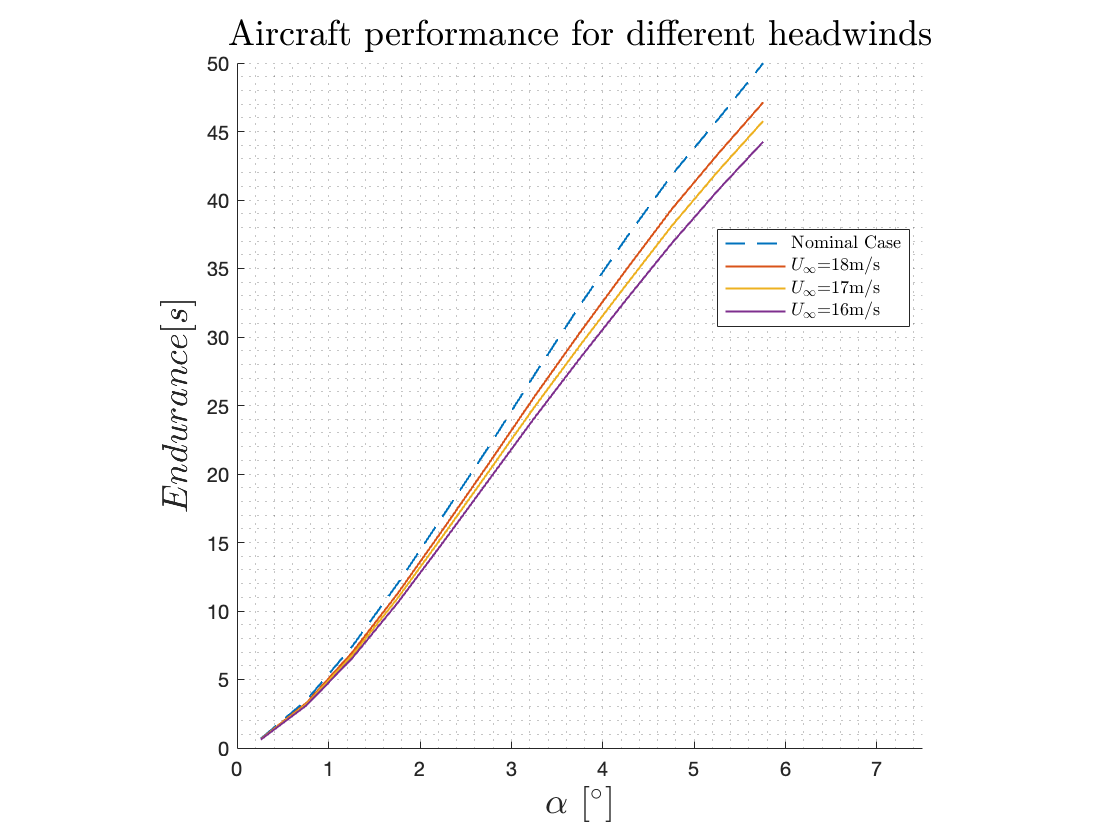
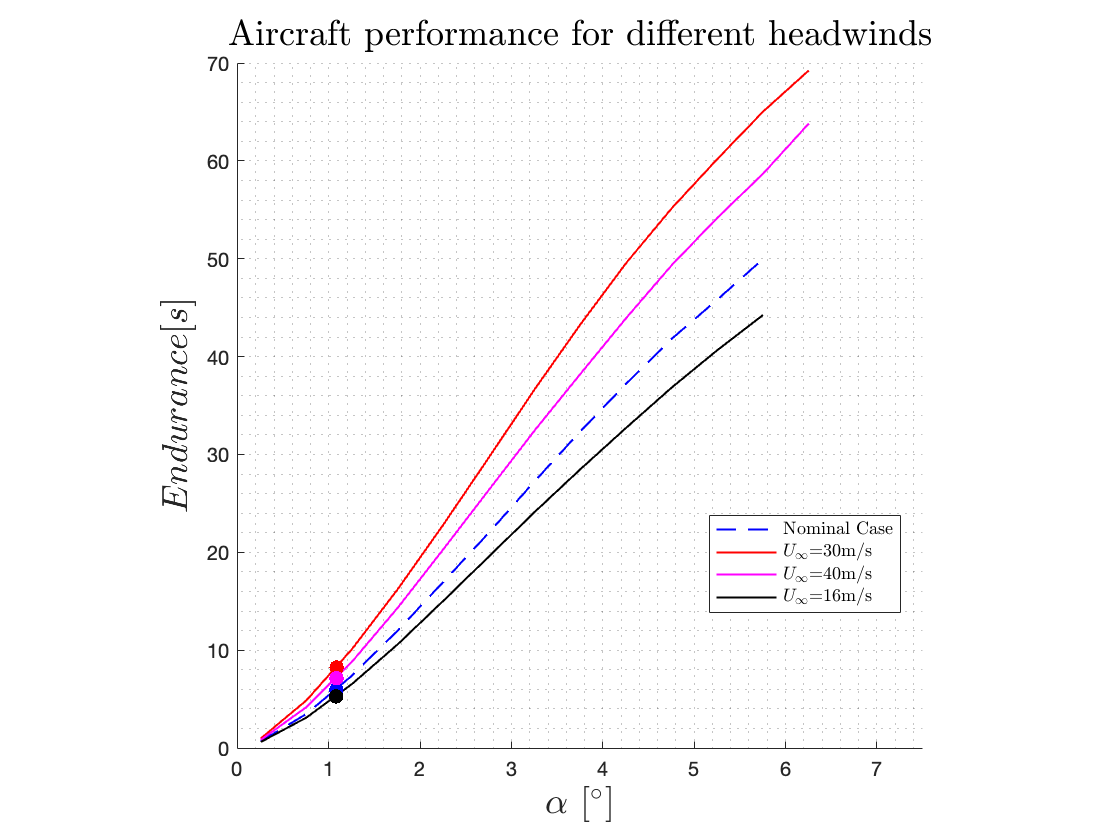
Actualizacion graficas

diff --git a/Lab2/Headwind/plotHeadwind.m b/Lab2/Headwind/plotHeadwind.m
@@ -13,7 +13,7 @@ Headers = { 'alpha','Beta','CL','CDi','CDv','CD','CY', 'Cl','Cm','Cn','Cni','QIn
 
 % Legend for the different cases of study 
 
-leyenda = {'Nominal Case','$U_{\infty}$=18m/s','$U_{\infty}$=17m/s','$U_{\infty}$=16m/s'};
+leyenda = {'Nominal Case','$U_{\infty}$=30m/s','$U_{\infty}$=40m/s','$U_{\infty}$=16m/s'};
 
 
 %% Nominal case 
@@ -43,59 +43,82 @@ rate_descent_Nom = - sqrt(2*W/(rho*S)).*CD_Nom(CL_Nom>=0)./(CL_Nom(CL_Nom>=0).^(
 
 Endurance_Nom = -deltaH./rate_descent_Nom;
 
-%% U_inf = 18 m/s 
-data_18 =readtable('T1-18_0 m_s-VLM2.txt','HeaderLines',5);                
-data_18.Properties.VariableNames = Headers;
+% Trim condition
 
-alpha_18 = data_18.alpha;
-Cm_18 = data_18.Cm;
-CL_18 = data_18.CL; 
-CD_18 = data_18.CD; 
+CD_zero_moment_Nom = interp1(alpha_Nom-alpha_0_Nom,CD_Nom,alpha_zero_torque_Nom);
 
-for i=1:length(alpha_18)
-  alpha_0_18 = interp1(CL_18,alpha_18,0);
+R_Trim_Nom = deltaH*Cl_zero_moment_Nom/CD_zero_moment_Nom;
+
+E_Trim_Nom = deltaH/(sqrt(2*W(1)/(rho*S(1))).*CD_zero_moment_Nom/(Cl_zero_moment_Nom^(3/2)));
+
+
+%% U_inf = 30 m/s 
+data_30 =readtable('T1-30_0 m_s-VLM2.txt','HeaderLines',5);                
+data_30.Properties.VariableNames = Headers;
+
+alpha_30 = data_30.alpha;
+Cm_30 = data_30.Cm;
+CL_30 = data_30.CL; 
+CD_30 = data_30.CD; 
+
+for i=1:length(alpha_30)
+  alpha_0_30 = interp1(CL_30,alpha_30,0);
 end
 
-alpha_zero_torque_18 = interp1(Cm_18,alpha_18-alpha_0_18,0);
+alpha_zero_torque_30 = interp1(Cm_30,alpha_30-alpha_0_30,0);
 
-Cl_zero_moment_18 = interp1(alpha_18-alpha_0_18,CL_18,alpha_zero_torque_18);
+Cl_zero_moment_30 = interp1(alpha_30-alpha_0_30,CL_30,alpha_zero_torque_30);
 
-V_18 = sqrt(2*W/(rho*S*Cl_zero_moment_18));
+V_30 = sqrt(2*W/(rho*S*Cl_zero_moment_30));
 
 
-R_18 = deltaH.*CL_18(CL_18>=0)./CD_18(CL_18>=0);
+R_30 = deltaH.*CL_30(CL_30>=0)./CD_30(CL_30>=0);
 
-rate_descent_18 = - sqrt(2*W/(rho*S)).*CD_18(CL_18>=0)./(CL_18(CL_18>=0).^(3/2)); 
+rate_descent_30 = - sqrt(2*W/(rho*S)).*CD_30(CL_30>=0)./(CL_30(CL_30>=0).^(3/2)); 
 
-Endurance_18 = -deltaH./rate_descent_18;
+Endurance_30 = -deltaH./rate_descent_30;
 
+% Trim condition
+
+CD_zero_moment_30 = interp1(alpha_30-alpha_0_30,CD_30,alpha_zero_torque_30);
+
+R_Trim_30 = deltaH*Cl_zero_moment_30/CD_zero_moment_30;
+
+E_Trim_30 = deltaH/(sqrt(2*W(1)/(rho*S(1))).*CD_zero_moment_30/(Cl_zero_moment_30^(3/2)));
 
 %% U_inf = 17
 
-data_17 =readtable('T1-17_0 m_s-VLM2.txt','HeaderLines',5);                
-data_17.Properties.VariableNames = Headers;
+data_40 =readtable('T1-40_0 m_s-VLM2.txt','HeaderLines',5);                
+data_40.Properties.VariableNames = Headers;
 
-alpha_17 = data_17.alpha;
-Cm_17 = data_17.Cm;
-CL_17 = data_17.CL; 
-CD_17 = data_17.CD; 
+alpha_40 = data_40.alpha;
+Cm_40 = data_40.Cm;
+CL_40 = data_40.CL; 
+CD_40 = data_40.CD; 
 
-for i=1:length(alpha_17)
-  alpha_0_17 = interp1(CL_17,alpha_17,0);
+for i=1:length(alpha_40)
+  alpha_0_40 = interp1(CL_40,alpha_40,0);
 end
 
-alpha_zero_torque_17 = interp1(Cm_17,alpha_17-alpha_0_17,0);
+alpha_zero_torque_40 = interp1(Cm_40,alpha_40-alpha_0_40,0);
 
-Cl_zero_moment_17 = interp1(alpha_17-alpha_0_17,CL_17,alpha_zero_torque_17);
+Cl_zero_moment_40 = interp1(alpha_40-alpha_0_40,CL_40,alpha_zero_torque_40);
 
-V_17 = sqrt(2*W/(rho*S*Cl_zero_moment_17));
+V_40 = sqrt(2*W/(rho*S*Cl_zero_moment_40));
 
+R_40 = deltaH.*CL_40(CL_40>=0)./CD_40(CL_40>=0);
 
-R_17 = deltaH.*CL_17(CL_17>=0)./CD_17(CL_17>=0);
+rate_descent_40 = - sqrt(2*W/(rho*S)).*CD_40(CL_40>=0)./(CL_40(CL_40>=0).^(3/2)); 
 
-rate_descent_17 = - sqrt(2*W/(rho*S)).*CD_17(CL_17>=0)./(CL_17(CL_17>=0).^(3/2)); 
+Endurance_40 = -deltaH./rate_descent_40;
 
-Endurance_17 = -deltaH./rate_descent_17;
+% Trim condition
+
+CD_zero_moment_40 = interp1(alpha_40-alpha_0_40,CD_40,alpha_zero_torque_40);
+
+R_Trim_40 = deltaH*Cl_zero_moment_40/CD_zero_moment_40;
+
+E_Trim_40 = deltaH/(sqrt(2*W(1)/(rho*S(1))).*CD_zero_moment_40/(Cl_zero_moment_40^(3/2)));
 
 %% U_inf = 16 m/s 
 
@@ -124,12 +147,20 @@ rate_descent_16 = - sqrt(2*W/(rho*S)).*CD_16(CL_16>=0)./(CL_16(CL_16>=0).^(3/2))
 
 Endurance_16 = -deltaH./rate_descent_16;
 
+% Trim condition
+
+CD_zero_moment_16 = interp1(alpha_16-alpha_0_16,CD_16,alpha_zero_torque_16);
+
+R_Trim_16 = deltaH*Cl_zero_moment_16/CD_zero_moment_16;
+
+E_Trim_16 = deltaH/(sqrt(2*W(1)/(rho*S(1))).*CD_zero_moment_16/(Cl_zero_moment_16^(3/2)));
+
 %% Plots 
 figure(1)
 hold on 
 plot(alpha_Nom-alpha_0_Nom,Cm_Nom)
-plot(alpha_18-alpha_0_18,Cm_18)
-plot(alpha_17-alpha_0_17,Cm_17)
+plot(alpha_30-alpha_0_30,Cm_30)
+plot(alpha_40-alpha_0_40,Cm_40)
 plot(alpha_16-alpha_0_16,Cm_16)
 yline(0,'--')
 grid minor
@@ -143,8 +174,8 @@ title('Analysis of the aircraft performance for different $x_{CG}$','Interpreter
 figure(2)
 hold on 
 plot(alpha_Nom-alpha_0_Nom,CL_Nom)
-plot(alpha_18-alpha_0_18,CL_18)
-plot(alpha_17-alpha_0_17,CL_17)
+plot(alpha_30-alpha_0_30,CL_30)
+plot(alpha_40-alpha_0_40,CL_40)
 plot(alpha_16-alpha_0_16,CL_16)
 yline(0,'--')
 grid minor
@@ -158,8 +189,8 @@ title('Analysis of the aircraft performance for different $x_{CG}$','Interpreter
 figure(3)
 hold on 
 plot(Cm_Nom,CL_Nom)
-plot(Cm_18,CL_18)
-plot(Cm_17,CL_17)
+plot(Cm_30,CL_30)
+plot(Cm_40,CL_40)
 plot(Cm_16,CL_16)
 yline(0,'--')
 xlim([-0.5,0.6])
@@ -172,10 +203,15 @@ title('Analysis of the aircraft performance for different headwinds','Interprete
 
 figure(4)
 hold on 
-plot(alpha_Nom(CL_Nom>=0)-alpha_0_Nom,Endurance_Nom,'--','LineWidth',1)
-plot(alpha_18(CL_18>=0)-alpha_0_18,Endurance_18,'LineWidth',1)
-plot(alpha_17(CL_17>=0)-alpha_0_17,Endurance_17,'LineWidth',1)
-plot(alpha_16(CL_16>=0)-alpha_0_16,Endurance_16,'LineWidth',1)
+plot(alpha_Nom(CL_Nom>=0)-alpha_0_Nom,Endurance_Nom,'b--','LineWidth',1)
+plot(alpha_40(CL_40>=0)-alpha_0_40,Endurance_40,'r-','LineWidth',1)
+plot(alpha_30(CL_30>=0)-alpha_0_30,Endurance_30,'m-','LineWidth',1)
+plot(alpha_16(CL_16>=0)-alpha_0_16,Endurance_16,'k-','LineWidth',1)
+
+plot(alpha_zero_torque_Nom,E_Trim_Nom,'b.','MarkerSize',20)
+plot(alpha_zero_torque_40,E_Trim_40,'r.','MarkerSize',20)
+plot(alpha_zero_torque_30,E_Trim_30,'m.','MarkerSize',20)
+plot(alpha_zero_torque_16,E_Trim_16,'k.','MarkerSize',20)
 yline(0,'--')
 grid minor
 axis square
@@ -187,10 +223,15 @@ title('Aircraft performance for different headwinds','Interpreter','latex','Font
 
 figure(5)
 hold on 
-plot(alpha_Nom(CL_Nom>=0)-alpha_0_Nom,R_Nom,'--','LineWidth',1)
-plot(alpha_18(CL_18>=0)-alpha_0_18,R_18,'LineWidth',1)
-plot(alpha_17(CL_17>=0)-alpha_0_17,R_17,'LineWidth',1)
-plot(alpha_16(CL_16>=0)-alpha_0_16,R_16,'LineWidth',1)
+plot(alpha_Nom(CL_Nom>=0)-alpha_0_Nom,R_Nom,'b--','LineWidth',1)
+plot(alpha_40(CL_40>=0)-alpha_0_40,R_40,'r-','LineWidth',1)
+plot(alpha_30(CL_30>=0)-alpha_0_30,R_30,'m-','LineWidth',1)
+plot(alpha_16(CL_16>=0)-alpha_0_16,R_16,'k-','LineWidth',1)
+
+plot(alpha_zero_torque_Nom,R_Trim_Nom,'b.','MarkerSize',20)
+plot(alpha_zero_torque_40,R_Trim_40,'r.','MarkerSize',20)
+plot(alpha_zero_torque_30,R_Trim_30,'m.','MarkerSize',20)
+plot(alpha_zero_torque_16,R_Trim_16,'k.','MarkerSize',20)
 yline(0,'--')
 grid minor
 axis square
@@ -204,7 +245,7 @@ title('Aircraft performance for different headwinds','Interpreter','latex','Font
 % hold on
 % grid minor
 % axis square
-% plot([-6,-4,-1,1], [V_18,V_17,V_Nom,V_16],'r.-','MarkerSize',10,'LineWidth',2)
+% plot([-6,-4,-1,1], [V_30,V_40,V_Nom,V_16],'r.-','MarkerSize',10,'LineWidth',2)
 % xlabel('Twist at the tip [$^{\circ}$]','Interpreter','latex','FontSize',18)
 % ylabel('Trim velocity [m/s]','Interpreter','latex','FontSize',18)
 % title('Trim condition for different twist angles at the tip','Interpreter','latex','FontSize',18)
